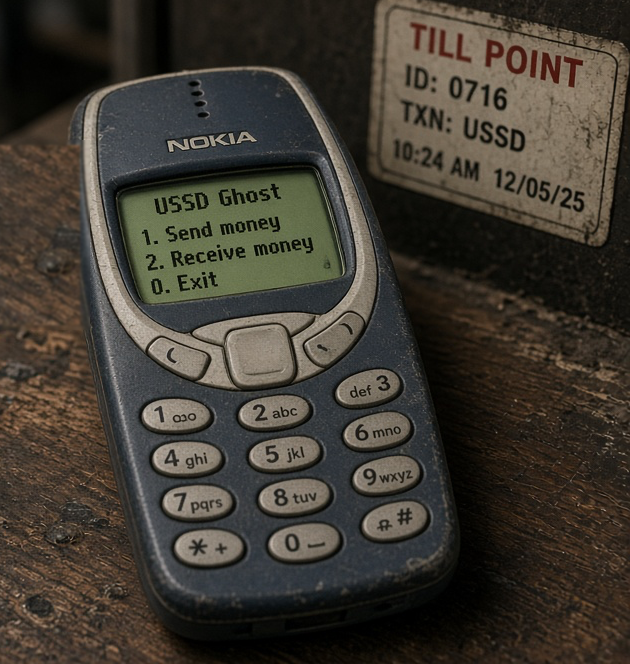
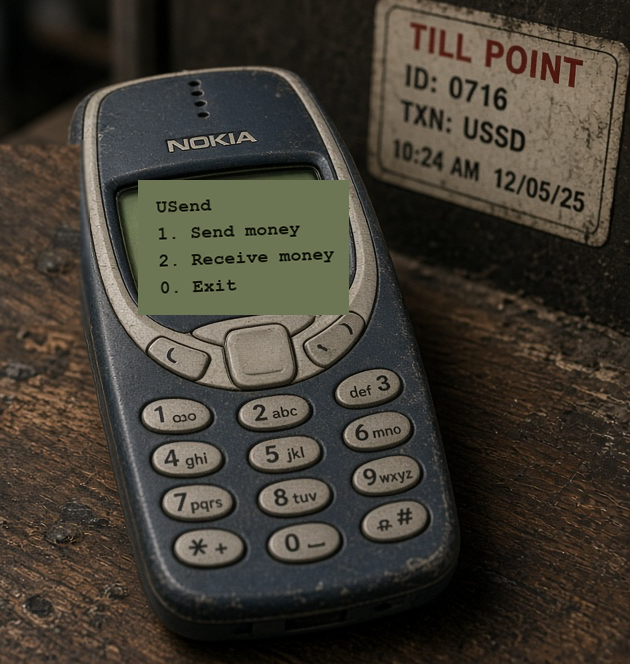
fix: Nokia LCD reads USend, not USSD Ghost
Hero photo menu is USend / Send money / Receive money / Exit. Old Ghost LCD is gone.

Changed region(s): [[0.2111, 0.2711, 0.573, 0.4819]]

diff --git a/app/page.tsx b/app/page.tsx
@@ -56,7 +56,7 @@ export default function Home() {
         <div className="relative min-h-[22rem] lg:min-h-full">
           <Image
             src="/hero-nokia.png"
-            alt="Worn Nokia feature phone showing a USSD menu: 1 Send money, 2 Receive money"
+            alt="Worn Nokia feature phone showing a USSD menu: USend, 1 Send money, 2 Receive money"
             fill
             priority
             sizes="(min-width: 1024px) 58vw, 100vw"
